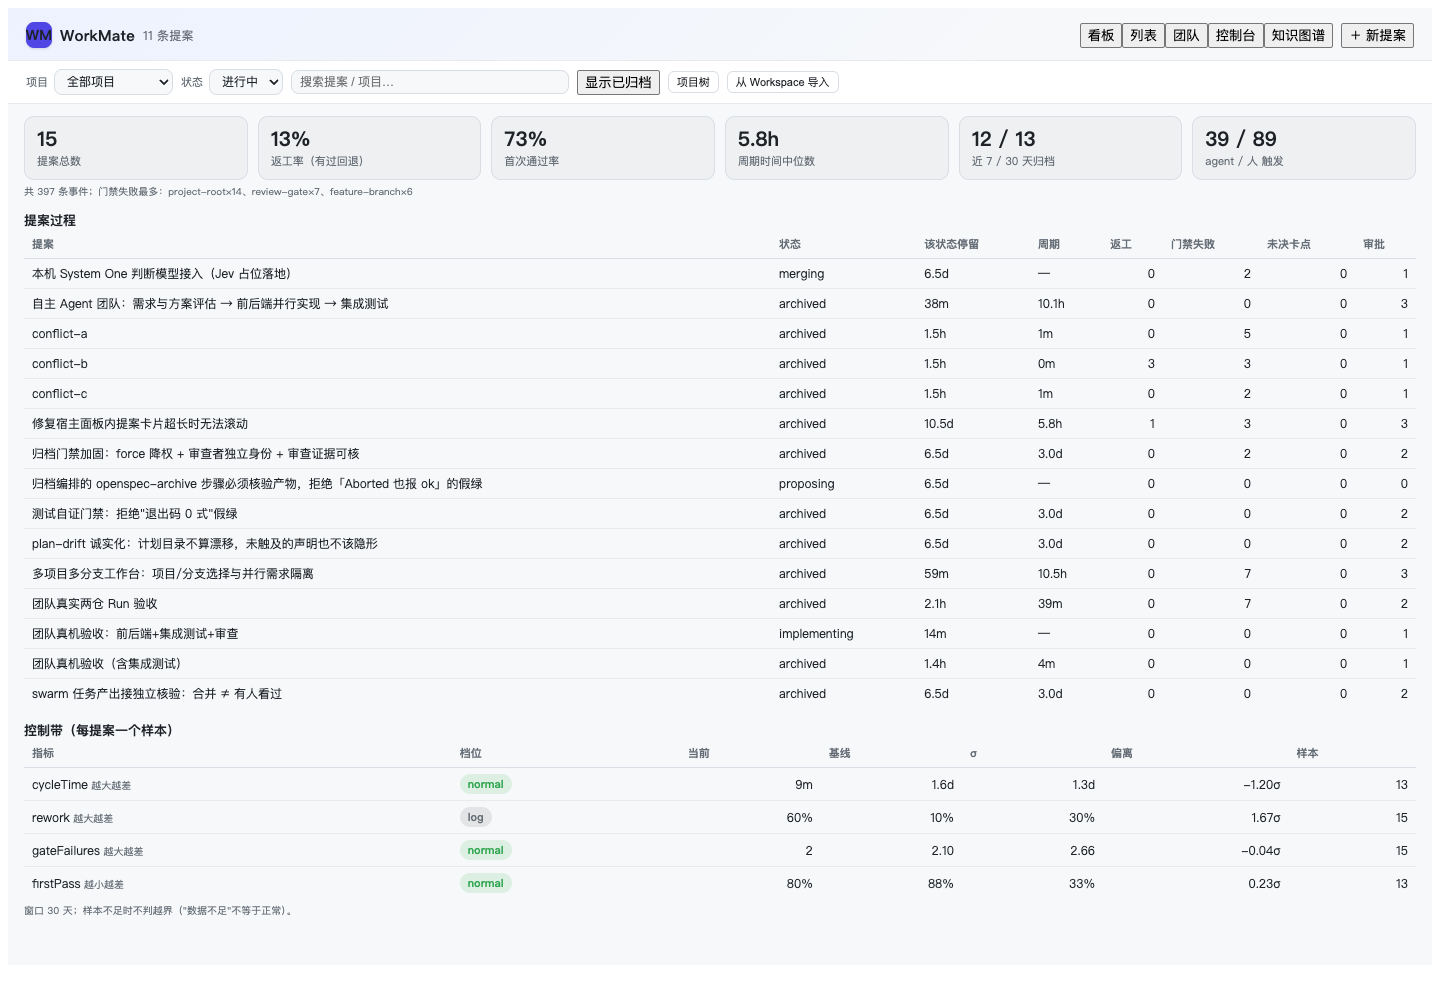
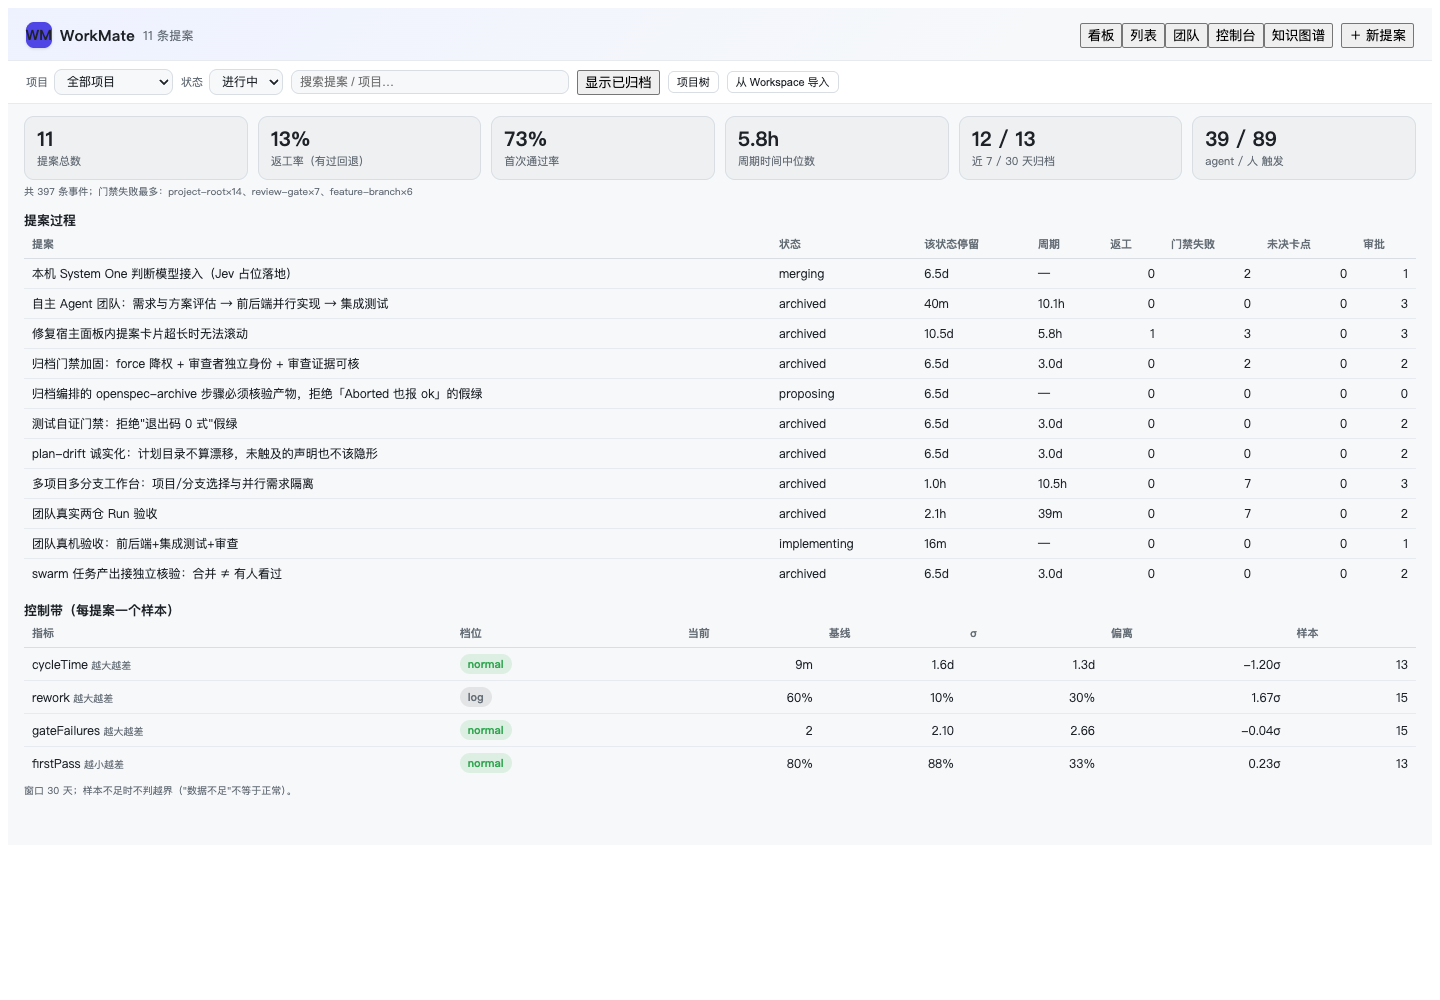
feat(ui): 控制台客户端兜底过滤 abandoned 并复测截图 [proposal:multiproject-branch-workbench]

diff --git a/src/client/App.tsx b/src/client/App.tsx
@@ -1843,9 +1843,17 @@ export function ConsoleView({ onError }: { onError: (message: string) => void })
   const [metrics, setMetrics] = useState<AggregateMetrics | null>(null)
   const [bands, setBands] = useState<BandsPayload | null>(null)
   const [failure, setFailure] = useState('')
+  const [abandonedIds, setAbandonedIds] = useState<Set<string>>(new Set())
 
   useEffect(() => {
     let alive = true
+    void listProposals()
+      .then(({ proposals }) => {
+        if (alive) {
+          setAbandonedIds(new Set(proposals.filter((proposal) => proposal.abandonedAt !== undefined).map((proposal) => proposal.id)))
+        }
+      })
+      .catch(() => undefined)
     // Independent fetches: one failing endpoint must not hide the other's data
     // (a corrupt bands.json would otherwise keep the whole console in "loading").
     void getMetrics()
@@ -1893,7 +1901,7 @@ export function ConsoleView({ onError }: { onError: (message: string) => void })
       <section className="wm-section">
         <div className="wm-kpis">
           <div className="wm-kpi">
-            <div className="wm-kpi-value">{metrics.proposals}</div>
+            <div className="wm-kpi-value">{rows.filter((row) => !abandonedIds.has(row.id)).length || metrics.proposals}</div>
             <div className="wm-kpi-label">提案总数</div>
           </div>
           <div className="wm-kpi">
@@ -1952,7 +1960,7 @@ export function ConsoleView({ onError }: { onError: (message: string) => void })
               </tr>
             </thead>
             <tbody>
-              {rows.filter((row) => !row.abandoned).map((row) => (
+              {rows.filter((row) => !row.abandoned && !abandonedIds.has(row.id)).map((row) => (
                 <tr key={row.id}>
                   <td title={row.id}>{row.title}</td>
                   <td>{row.status}</td>
